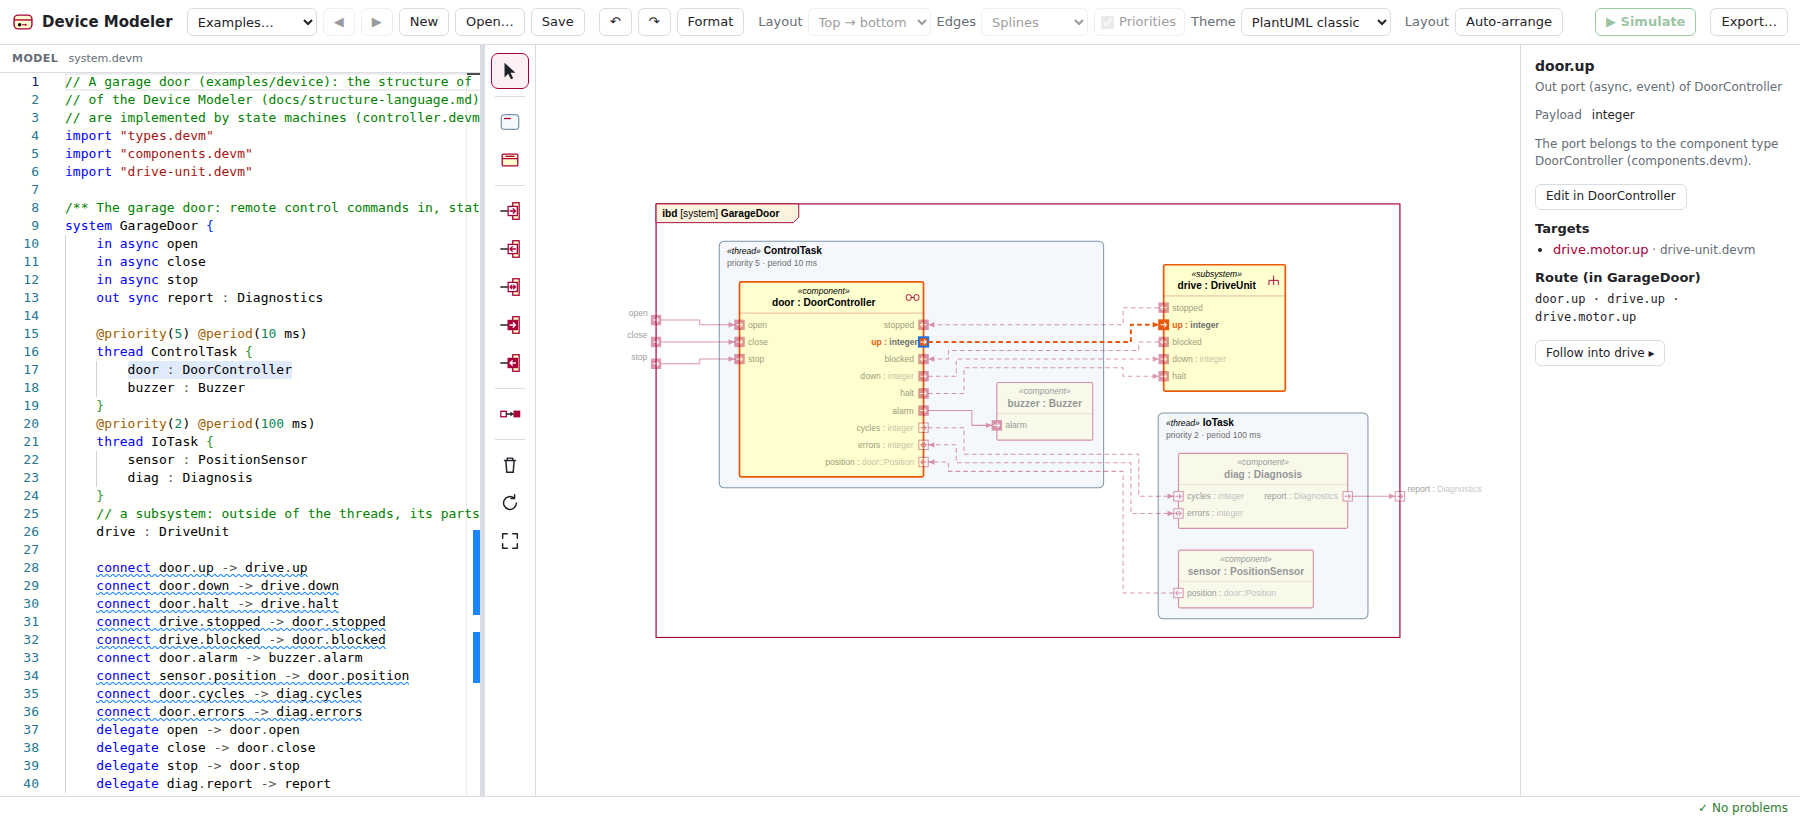
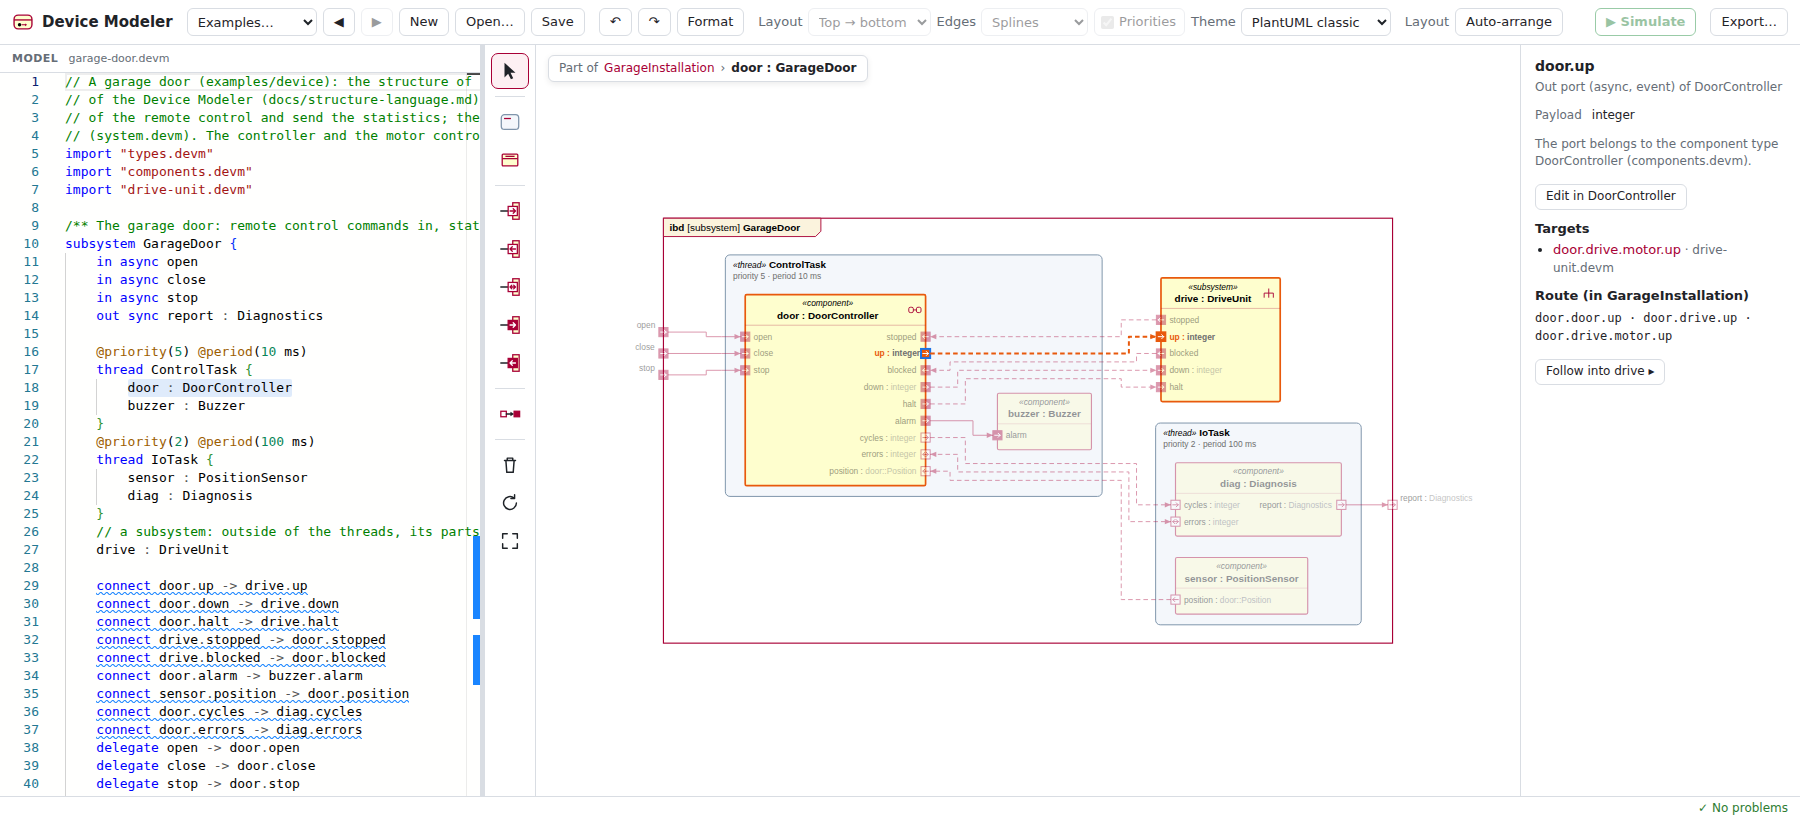
Docs: the closed system GarageInstallation and the GarageDoor subsystem
structure-language.md: the system rule (no ports, no delegations), the new example system.devm and
garage-door.devm, the diagrams of both; editor.md: port tools on a system frame, the breadcrumb Part
of GarageInstallation › door : GarageDoor; README and ROADMAP Phase 7 updated. The structure
diagrams of the example are regenerated (GarageInstallation.svg new, GarageDoor.svg now a
subsystem, DriveUnit.svg) and the README screenshot shows GarageDoor opened as the part door of
GarageInstallation.

Claude-Session: https://claude.ai/code/session_01WqDt4GyKVXn71vTE2Gzrtz

diff --git a/docs/structure-language.md b/docs/structure-language.md
@@ -14,25 +14,51 @@ one – is a structure file; structure elements after a state machine (or a stat
 elements) are reported: *A .devm file contains either a state machine or structure elements*. The keywords
 of state machines can be used as names in structure files (a field `state`, a port `event`) and vice versa.
 
-The complete example is in [`examples/device`](../examples/device): a garage door with a controller and
-a drive unit (a subsystem with threads of its own), implemented by `controller.devm` and `drive.devm`; `light.devm`
-declares a data type, components and a subsystem in one file.
+The complete example is in [`examples/device`](../examples/device): the closed system `GarageInstallation`
+(`system.devm`) – the garage door with its environment, a remote control and a status display – and the
+garage door itself, a subsystem with a controller and a drive unit (again a subsystem with threads of its
+own), implemented by `controller.devm` and `drive.devm`; `light.devm` declares a data type, components and a
+subsystem in one file.
 
 ```
 // system.devm
+import "components.devm"                     // component types and subsystems of other files
+import "garage-door.devm"
+
+/** The garage with its door, the remote control and the status display. */
+system GarageInstallation {                 // the closed top level: no ports, the environment is a part
+    @priority(4) @period(20 ms)
+    thread RadioTask {                      // a thread and the instances running in it
+        remote : RemoteControl
+    }
+    @priority(1) @period(500 ms)
+    thread DisplayTask {
+        display : StatusDisplay
+    }
+    door : GarageDoor                       // a subsystem: outside of the threads, its parts run in its threads
+
+    connect remote.open -> door.open        // out port -> in port (the direction of the data)
+    connect remote.close -> door.close
+    connect remote.stop -> door.stop
+    connect door.report -> display.report
+}
+```
+
+```
+// garage-door.devm
 import "types.devm"                          // structs and component types of other files
 import "components.devm"
 import "drive-unit.devm"
 
 /** The garage door: remote control commands in, statistics out. */
-system GarageDoor {
-    in async open                           // boundary ports of the system: events of the remote control
+subsystem GarageDoor {
+    in async open                           // boundary ports of the subsystem: events of the remote control
     in async close
     in async stop
     out sync report : Diagnostics           // data for the environment
 
     @priority(5) @period(10 ms)
-    thread ControlTask {                    // a thread and the instances running in it
+    thread ControlTask {
         door : DoorController
         buzzer : Buzzer
     }
@@ -41,9 +67,9 @@ system GarageDoor {
         sensor : PositionSensor
         diag : Diagnosis
     }
-    drive : DriveUnit                       // a subsystem: outside of the threads, its parts run in its threads
+    drive : DriveUnit                       // a subsystem inside a subsystem
 
-    connect door.up -> drive.up             // out port -> in port (the direction of the data)
+    connect door.up -> drive.up
     connect door.down -> drive.down
     connect door.halt -> drive.halt
     connect drive.stopped -> door.stopped
@@ -101,12 +127,21 @@ struct Diagnostics {                        // a data type of ports and struct f
 | struct | `struct Position { x : real  y : real }` | a data type (fields separated by line breaks, `,` or `;`) |
 | component | `component Name "description" { behavior "x.devm"  ports… }` | an atomic component type |
 | subsystem | `subsystem Name { ports… threads… instances… connect… delegate… }` | a composite component type, can be instantiated |
-| system | `system Name { … }` | the root of a product (same body as `subsystem`, cannot be instantiated) |
+| system | `system Name { threads… instances… connect… }` | the root of a product: closed and complete – **no ports and no delegations** (the environment, e.g. the remote control, is modeled as parts); cannot be instantiated |
 | port | `in\|out\|inout sync name : Type`, `in\|out async name` / `in\|out async name : Type` | see [Ports](#ports) |
 | thread | `@priority(5) @period(10 ms) @stack(4096) thread Name { a : A  b }` | see [Threads](#threads) |
 | instance | `name : ComponentType "description"` | a part of a subsystem or system: an instance of a component in a thread, of a subsystem outside of the threads (see [Threads](#threads)) |
 | connection | `connect a.out -> b.in` | connects an out port of a part with an in port of another part (two inout ports: in any order) |
 | delegation | `delegate in -> part.in` / `delegate part.out -> out` | connects a boundary port with a port of a part |
+
+**Subsystem and system.** A `subsystem` is a part with boundary ports: it receives data from its
+environment and delivers data to it (`delegate`). A `system` is the **closed, complete top level** of a
+product: it has **no ports** and therefore no delegations – whatever it talks to (the remote control, a
+display, the user) is modeled as a part of the system and connected with `connect`. A port in a system is
+an error (*… model the environment (e.g. the remote control) as parts of the system, or declare it as
+'subsystem Name'*); the editor offers no port tools and no *Add port* for the frame of a system, completion
+proposes no `in` / `out` / `inout` / `delegate` in its body. Example: `system GarageInstallation`
+(`system.devm`) contains the subsystem `GarageDoor` (`garage-door.devm`) and its environment.
 
 Comments are written like in the state machines (`//`, `/* */`); a `/** … */` comment before an element
 is its documentation (hover in the editor). Annotations are written before the element they belong to.
@@ -202,6 +237,7 @@ crossing threads are only marked (an info diagnostic, dashed in the diagram, see
 | an instance of a component outside of a thread (neither declared in a thread nor assigned to one), an instance of a subsystem in a thread or assigned to one | error |
 | an instance in more than one thread | error |
 | recursive instantiation (`A` contains a `B` which contains an `A`), instantiating a `system` | error |
+| a port or a delegation in a `system`: *'GarageInstallation' is a system: the closed top level has no ports – model the environment (e.g. the remote control) as parts of the system, or declare it as 'subsystem GarageInstallation'.* | error |
 | an in or inout port of a part that is not connected (nor delegated): it receives no data | warning |
 | a boundary port that is not delegated (in: nobody receives its data, out: no part sends it, inout) | warning |
 | duplicate connection or delegation, same file imported twice, hidden or ambiguous imported names | warning |
@@ -299,11 +335,13 @@ navigation into the state machines and subsystems of the instances – see
 [the editor](editor.md#structure-diagrams) and [VS Code](vscode.md)) and rendered by `devm render`
 ([rendering](rendering.md)):
 
-![The garage door system](examples/GarageDoor.svg)
+![The closed system GarageInstallation](examples/GarageInstallation.svg)
+
+![The garage door subsystem](examples/GarageDoor.svg)
 
 | Element | Notation |
 |---|---|
-| subsystem / system | a frame with the tab `ibd [system] GarageDoor` (`ibd [subsystem] DriveUnit`); its boundary ports on the border, labels outside |
+| subsystem / system | a frame with the tab `ibd [subsystem] GarageDoor` (`ibd [system] GarageInstallation`); the boundary ports of a subsystem on the border, labels outside (a system has none) |
 | thread | a rounded, tinted frame `«thread» ControlTask` with its settings (`priority 5 · period 10 ms`) enclosing its instances |
 | instance | a box `«component»` / `«subsystem»` and `name : Type`; an icon of two linked states: the component has a behavior state machine; the rake icon: a subsystem (it has an internal block diagram of its own) |
 | port | a small square on the border, the name inside the box: **hollow** = sync (data values), **filled** = async (an event) |

diff --git a/docs/editor.md b/docs/editor.md
@@ -34,7 +34,7 @@ is shown instead of the state machine diagram when the edited `.devm` file conta
 | --- | --- |
 | Add a thread | *Thread* tool (`T`), click into the subsystem or system – then type its name |
 | Add an instance (part) | *Instance* tool (`I`), click into a thread and choose the component (instances of components run in threads), or click on the frame and choose a subsystem (placed outside of the threads); choosing a component on the frame asks for its thread next (without a thread nothing is added). The list shows the types visible in the file (type to filter) – then type the name |
-| Add a port | *Port* tools – the icons show the port symbol of the diagram (hollow: sync, filled: async, the arrow: the direction of the data): sync in `1`, sync out `2`, sync inout `3`, async in `4`, async out `5`; click on the frame (a boundary port of the subsystem or system), a component block or an instance whose type is declared in the file. New sync ports are `integer`, new async ports carry no payload – change the type in the properties panel |
+| Add a port | *Port* tools – the icons show the port symbol of the diagram (hollow: sync, filled: async, the arrow: the direction of the data): sync in `1`, sync out `2`, sync inout `3`, async in `4`, async out `5`; click on the frame (a boundary port of the subsystem), a component block or an instance whose type is declared in the file. A system is closed and has no ports: a click on its frame is refused with a hint (model the environment as parts, or make it a subsystem); the properties panel of a system shows *Ports: none (closed)*. New sync ports are `integer`, new async ports carry no payload – change the type in the properties panel |
 | Connect two ports | *Connector* tool (`C`): press on a port and drag to the other port (or click both). While drawing, the ports that can be connected turn green, incompatible ports (different kinds, data types or payloads not assignable, a second source of a sync in port) orange, the others fade; the hint shows the statement or why the ports do not fit. The connection is written in the **direction of the data**, whichever port you start at: two ports of parts become `connect out -> in` (drawn from the in port, the ends are swapped), two inout ports `connect a.s -> b.s` in the order you chose them, a boundary port and a port of a part a `delegate` (`delegate i -> part.i` for in, `delegate part.o -> o` for out ports). A connector dropped onto an incompatible port is refused – nothing is written, the status bar explains why (the message of the validator, e.g. *door.up (out async integer) cannot be connected to buzzer.alarm (in async): the event door.up carries integer, but buzzer.alarm expects no payload*) |
 | Move an instance into another thread | drag it onto the thread (an assignment by name, `thread T { door }`, is replaced). Dropping an instance of a component onto the frame or an instance of a subsystem into a thread is refused with a hint. In a manually arranged diagram the instance keeps the drop position |
 | Rename | double-click the name (of an instance: on its name, not on its type) or `F2`; also in the properties panel. Component types and ports are renamed in all structure files of the workspace that use them (Langium references); in the web app those other files are changed in the workspace (not undone with `Ctrl+Z` of the edited file), in VS Code all files are changed by one workspace edit (undone together) |
@@ -67,13 +67,13 @@ from left to right with orthogonal connectors).
 | From | Action | Shows |
 | --- | --- | --- |
 | an instance with a behavior | double-click it, click its behavior icon or *Open state machine* | the state machine (`.devm`) of its component |
-| a subsystem instance | double-click it, click its rake icon or *Open DriveUnit* | the internal block diagram of the subsystem, as the part of the shown diagram (breadcrumb *Part of GarageDoor › drive : DriveUnit*, the path of the navigation) |
+| a subsystem instance | double-click it, click its rake icon or *Open DriveUnit* | the internal block diagram of the subsystem, as the part of the shown diagram (breadcrumb *Part of GarageInstallation › door : GarageDoor*, *Part of GarageDoor › drive : DriveUnit*, the path of the navigation) |
 | the type name of an instance | double-click it or *Go to type* | the definition of the component type (its file, the type shown and selected) |
 | the type of a port (`position : Position`) | double-click the type | the «struct» box of the type in the diagram of the file declaring it, the declaration selected |
 | a «struct» box | click it | the declaration selected in the text (double-click: the cursor into it) |
 | a selected port, connection or instance | *Follow into drive ▸* (properties panel) | the subsystem the highlighted route continues into – the route stays highlighted there, also across files |
 | the same, inside a subsystem reached by navigation | *◂ Follow out to GarageDoor* | the subsystem or system the navigation came from, the route highlighted |
-| an in port (out port, inout port) | the *Sources* (*Targets*, *Shared with*) links, *Go to source* (*Go to shared port*) | the port at the end of the route – where the data comes from (goes to) – also in another file (e.g. from `drive-unit.devm` to the door controller in `system.devm`) |
+| an in port (out port, inout port) | the *Sources* (*Targets*, *Shared with*) links, *Go to source* (*Go to shared port*) | the port at the end of the route – where the data comes from (goes to) – also in another file (e.g. from `drive-unit.devm` to the door controller in `garage-door.devm`) |
 | a state machine | *Used by* (breadcrumb at the top of the diagram, properties panel) | the instances of the components implemented by the state machine, in the diagram of their subsystem or system |
 | anywhere | *◀* / *▶* in the toolbar, `Alt+←` / `Alt+→` | back / forward in the navigation history |
 

diff --git a/README.md b/README.md
@@ -12,7 +12,7 @@ can edit them directly: add states, draw transitions, nest states by drag and dr
 connect ports, rename in place, … Text and diagram always stay in sync, and the structure links to the
 state machines: double-click an instance to open its state machine.
 
-![Device Modeler: the system GarageDoor as text and internal block diagram, the route of the port door.up highlighted](docs/screenshot.png)
+![Device Modeler: the subsystem GarageDoor as text and internal block diagram, opened as the part door of the closed system GarageInstallation (breadcrumb), the route of the port door.up highlighted](docs/screenshot.png)
 
 ## Structure of a product (structure files)
 
@@ -21,7 +21,9 @@ state machines: double-click an instance to open its state machine.
 The kind of a `.devm` file is decided by its first word: a file starting with `statemachine` is a state
 machine, every other file is a structure file.
 
-![The structure of a garage door: internal block diagram of the system GarageDoor](docs/examples/GarageDoor.svg)
+![The closed system GarageInstallation: the garage door subsystem with the remote control and the status display](docs/examples/GarageInstallation.svg)
+
+![The structure of a garage door: internal block diagram of the subsystem GarageDoor](docs/examples/GarageDoor.svg)
 
 - **Component types** with **ports as directed data flow**: every port carries data in a direction –
   **sync** ports data values (`in sync position : door::Position`, `out sync cycles : integer`, shared
@@ -34,7 +36,9 @@ machine, every other file is a structure file.
   (`@priority(5) @period(10 ms)`) with the instances of components running in them, instances of other
   subsystems outside of the threads (recursive nesting; their parts run in threads of their own),
   explicit **connections** in the direction of the data (`connect door.up -> drive.up`, out → in; inout ↔
-  inout) and **delegations** to the boundary ports (`delegate open -> door.open`, `delegate diag.report -> report`).
+  inout) and **delegations** to the boundary ports of a subsystem (`delegate open -> door.open`, `delegate diag.report -> report`).
+  The `system` is the **closed, complete top level**: it has no ports – its environment (the remote control,
+  the status display) is modeled as parts (`system GarageInstallation` in `examples/device/system.devm`).
 - **Validation**: unconnected in ports, more than one source of a sync in port (sender of an async in port), mismatching kinds, types,
   payloads and directions, connections crossing threads (shown dashed), ports that do not match the state
   machine, unresolved imports, …
@@ -158,7 +162,7 @@ npm run build -w packages/language
 node packages/language/bin/cli.js validate examples/cd-player.devm
 node packages/language/bin/cli.js layout examples/keyboard.devm --direction RIGHT
 node packages/language/bin/cli.js render examples -o out --theme modern     # SVG diagrams, see below
-node packages/language/bin/cli.js render examples/device/system.devm -o system.svg   # internal block diagram of a system
+node packages/language/bin/cli.js render examples/device/system.devm -o system.svg   # internal block diagram of the closed system
 node packages/language/bin/cli.js doc examples -o docs/models --format html  # documentation, see below
 node packages/language/bin/cli.js import model.sct -o model.devm   # itemis CREATE import, see below
 node packages/language/bin/cli.js simulate examples/cd-player.devm -e play,eject,eject   # run the interpreter

diff --git a/ROADMAP.md b/ROADMAP.md
@@ -212,7 +212,9 @@ machines ([docs/structure-language.md](docs/structure-language.md), example [`ex
   `in` / `out async name [: Type]` (exactly one event, named like the port, with an optional payload); no
   operations, no provided / required services, no interface types –, `behavior "door.devm"` (ports mapped onto
   the interfaces of the state machine: `out sync` = `var`, `in sync` = `var readonly`, `inout sync` = `var`,
-  `in` / `out async` = `in` / `out event`), `subsystem`s and the root `system` (recursive nesting), threads with
+  `in` / `out async` = `in` / `out event`), `subsystem`s and the root `system` (recursive nesting; the system is
+  the closed, complete top level without ports – its environment is modeled as parts, e.g. `GarageInstallation`
+  with the remote control, the status display and the `GarageDoor` subsystem), threads with
   annotations (`@priority`, `@period`, `@stack`) – instances of components run in threads, instances of
   subsystems are placed outside of them –, explicit `connect` / `delegate` in the direction of the data
   (`connect out -> in`, `delegate in -> part.in`, `delegate part.out -> out`, inout with inout in any order),
